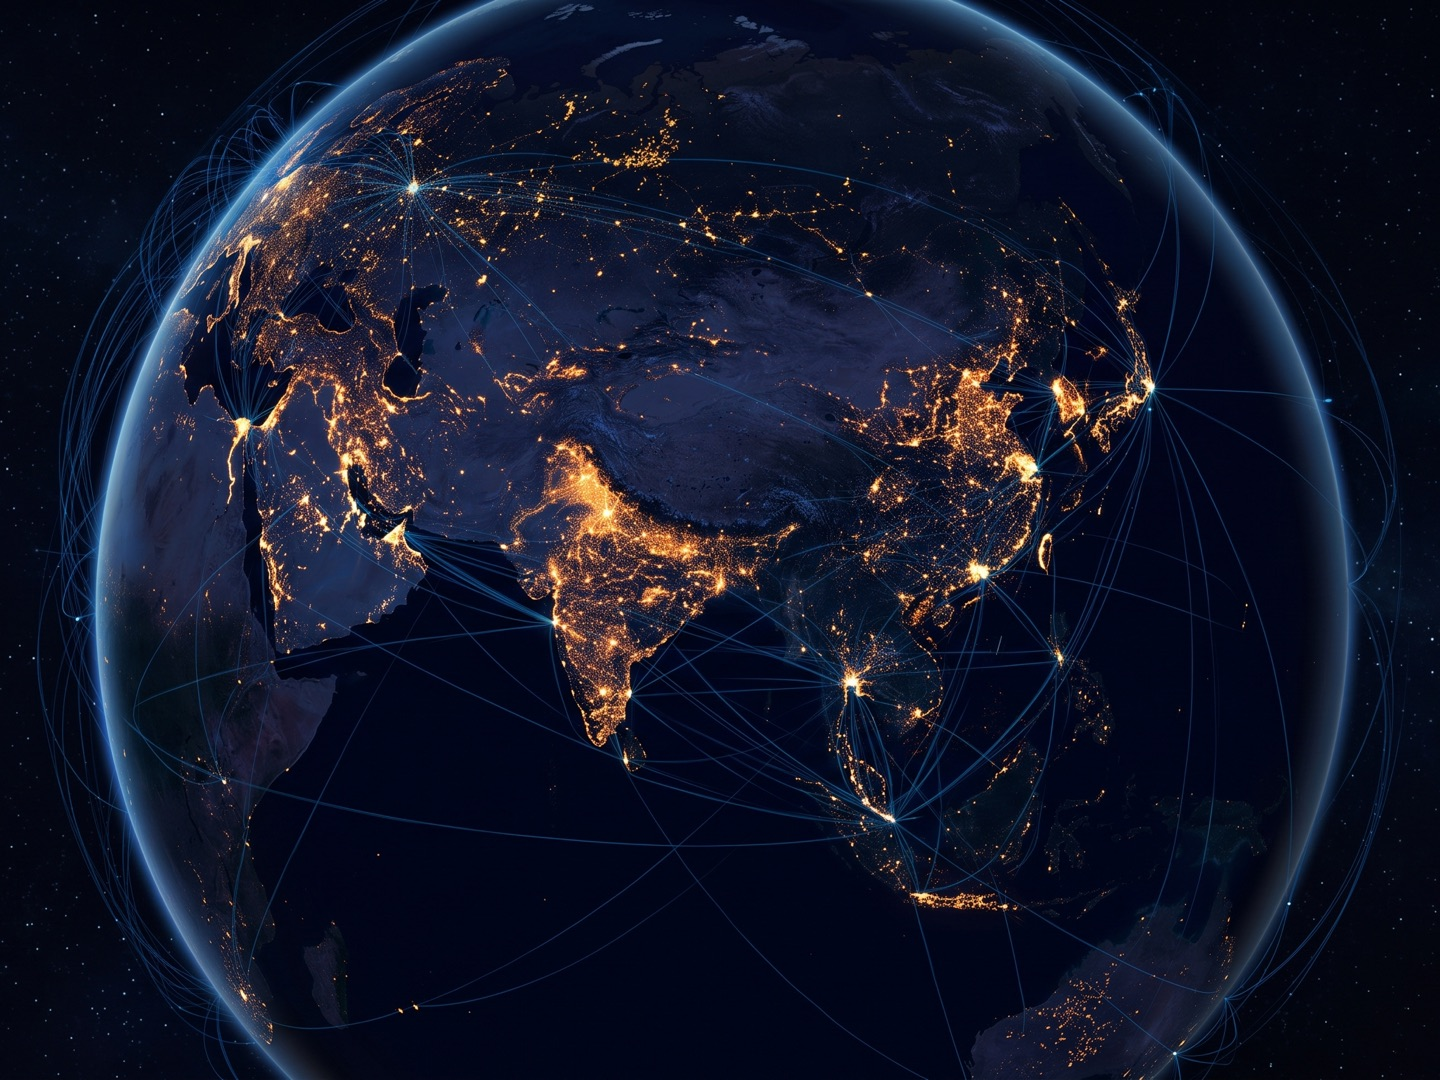
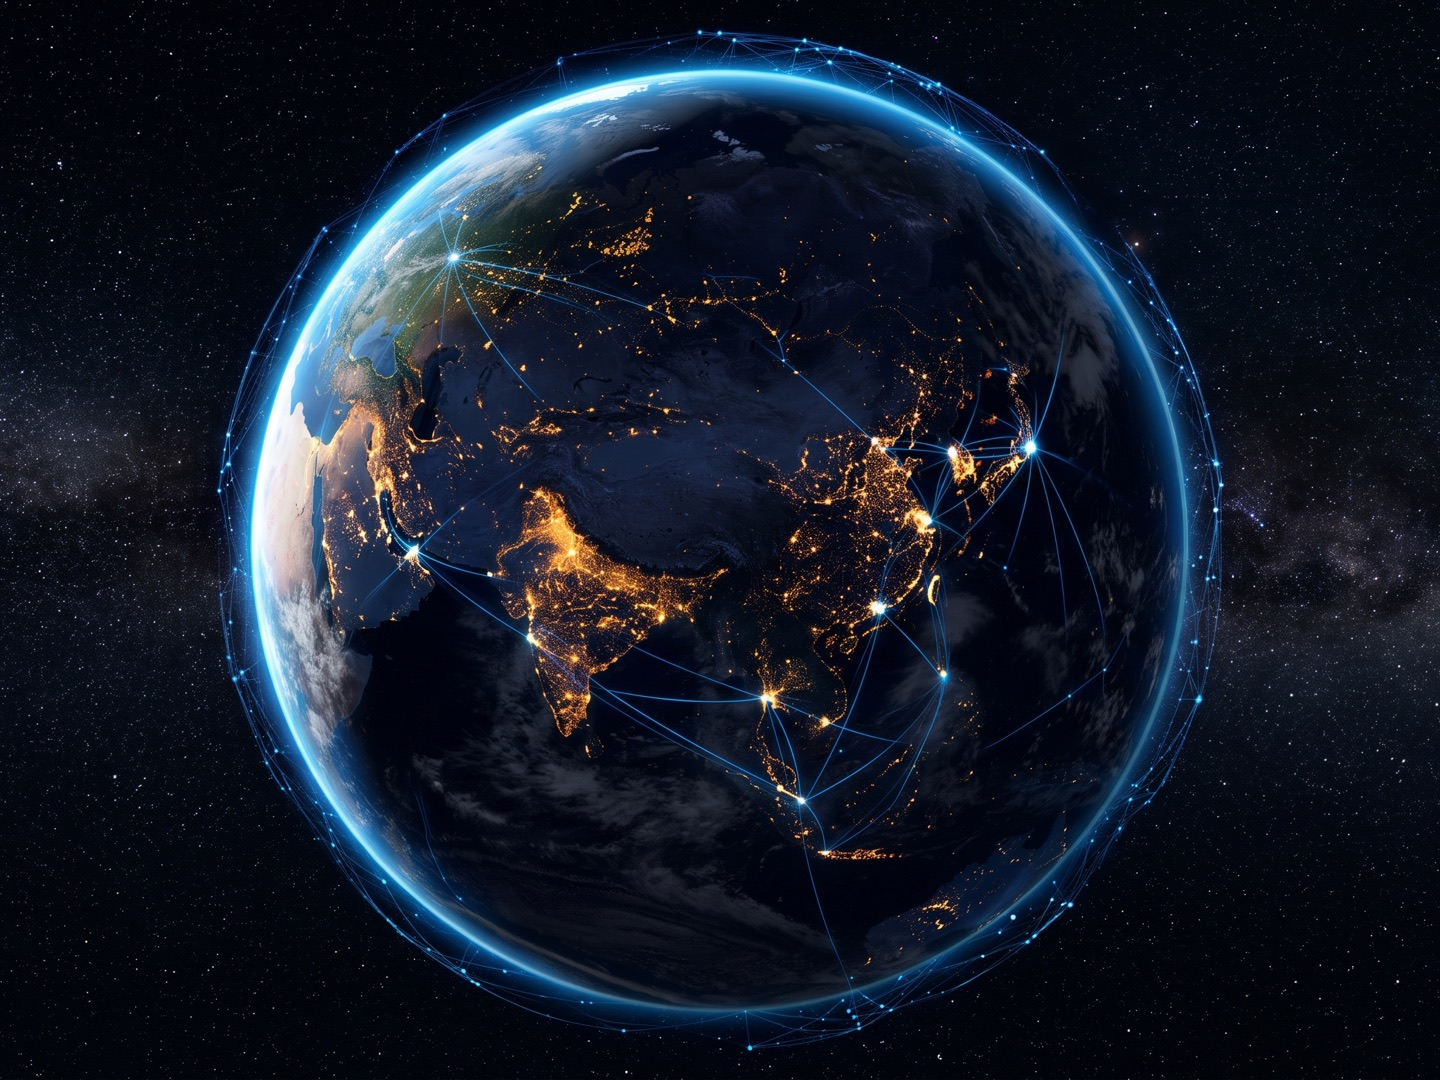
Replace the hero globe with a full-sphere photograph
The first globe image had the sphere set well inside a wide letterboxed
frame, so the 4:3 hero crop caught the atmosphere and network lines but
left visible dark margin around it. The replacement shows the full Earth
edge-to-edge with an intact glowing rim, centred in its own frame, so the
same crop fills the hero cleanly with no empty space.

Only the hero's single "globe" reference was touched — the "where we ship"
band on its own "shipband" slot (split off last commit) is untouched.

diff --git a/src/pages/index.html b/src/pages/index.html
@@ -40,7 +40,7 @@ meta-->
     <div class="hero__art" aria-hidden="true">
       <picture>
         <source srcset="assets/img/photo-globe.webp" type="image/webp">
-        <img src="assets/img/photo-globe.jpg" alt="Earth at night from space, city lights across India and South East Asia, with faint trade-route lines arcing over the globe" width="1440" height="1080" decoding="async" fetchpriority="high">
+        <img src="assets/img/photo-globe.jpg" alt="A full view of Earth from space at night, glowing atmosphere at the rim, with city lights across India and South East Asia connected by a network of trade routes" width="1440" height="1080" decoding="async" fetchpriority="high">
       </picture>
     </div>
   </div>

diff --git a/index.html b/index.html
@@ -151,7 +151,7 @@
     <div class="hero__art" aria-hidden="true">
       <picture>
         <source srcset="assets/img/photo-globe.webp" type="image/webp">
-        <img src="assets/img/photo-globe.jpg" alt="Earth at night from space, city lights across India and South East Asia, with faint trade-route lines arcing over the globe" width="1440" height="1080" decoding="async" fetchpriority="high">
+        <img src="assets/img/photo-globe.jpg" alt="A full view of Earth from space at night, glowing atmosphere at the rim, with city lights across India and South East Asia connected by a network of trade routes" width="1440" height="1080" decoding="async" fetchpriority="high">
       </picture>
     </div>
   </div>
